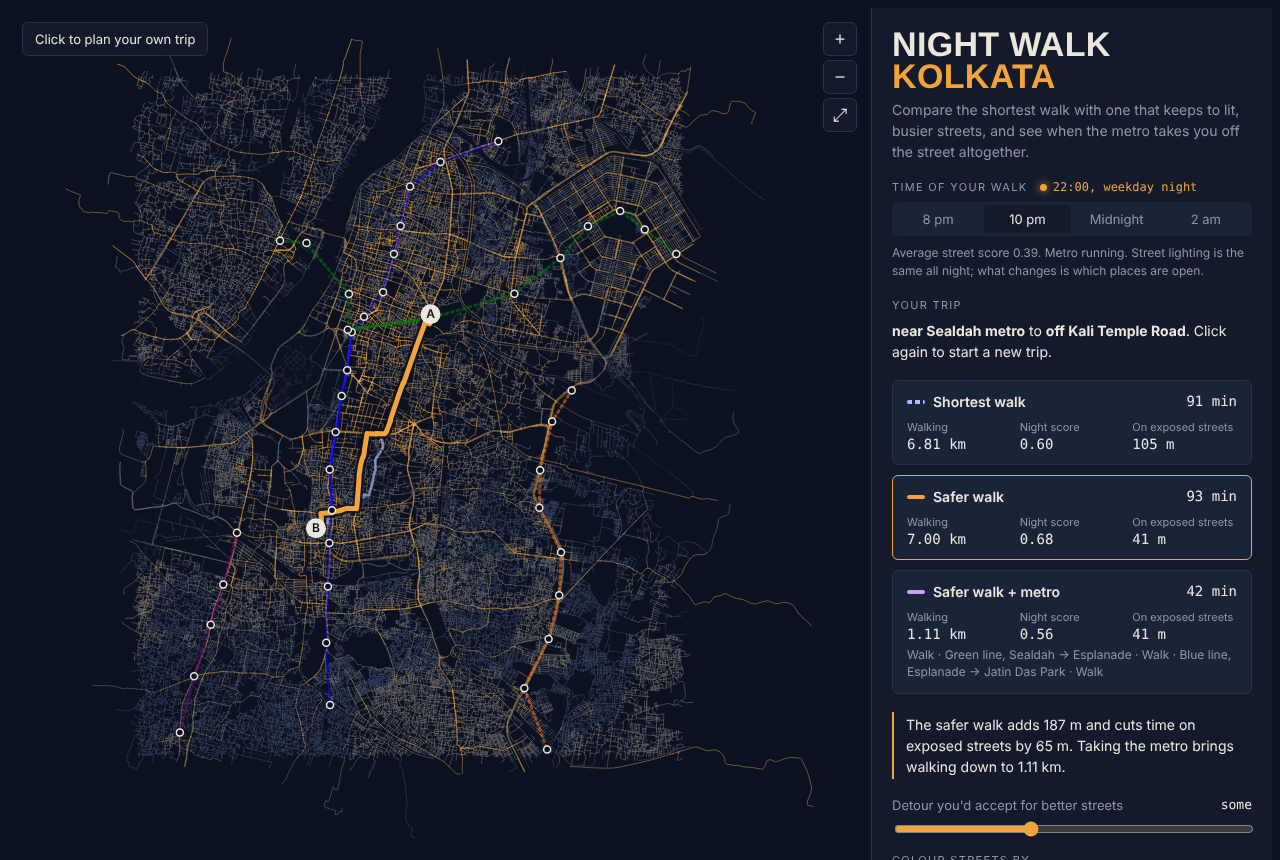
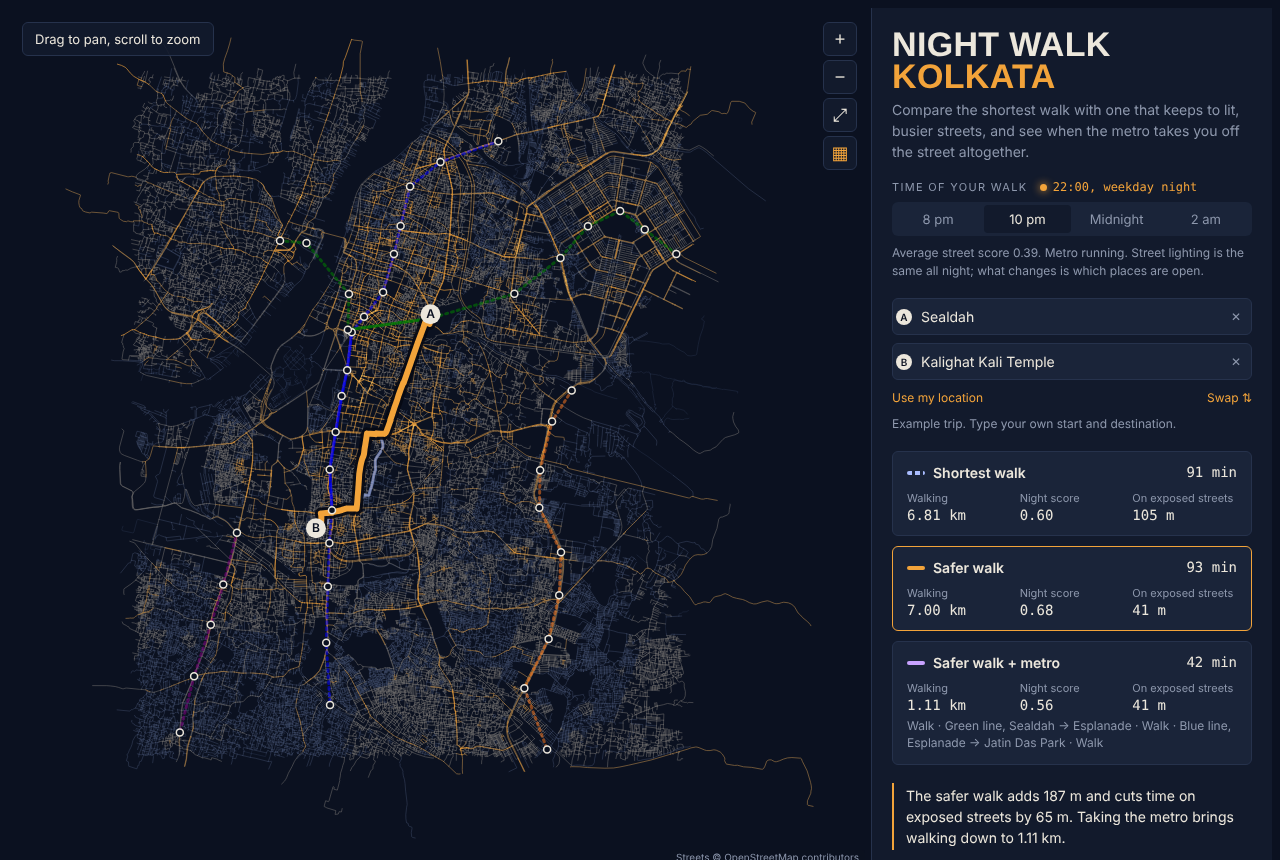
Update screenshot, clarify trip distances, add author section

diff --git a/src/nightwalk/evaluate.py b/src/nightwalk/evaluate.py
@@ -126,7 +126,7 @@ def run(edges, n_pairs=200, verbose=True):
     cov, cells = coverage_by_area(edges)
     if verbose:
         d = eff
-        print(f"\nROUTE EFFECT ({len(d)} random trips, 0.8-4 km)")
+        print(f"\nROUTE EFFECT ({len(d)} random trips, ends 0.8-4 km apart)")
         print(f"  safer route differs from shortest: {100*d.differs.mean():.0f}%")
         print(f"  median detour: {d.detour_pct.median():.1f}%  (p90 {d.detour_pct.quantile(.9):.1f}%)")
         print(f"  exposed distance: median {d.exposed_short_m.median():.0f} m -> "

diff --git a/README.md b/README.md
@@ -20,7 +20,8 @@ OSM snapshot of 2 November 2026: **74,288 walkable street segments, 4,434 km**
 in a 17 × 13 km box (22.47–22.62°N, 88.30–88.43°E) covering the Kolkata
 Municipal Corporation core, the Howrah riverfront and Salt Lake.
 
-**Safer routes are cheap.** Across 200 random trips of 0.8–4 km at 22:00:
+**Safer routes are cheap.** Across 200 random trips at 22:00, with ends 0.8–4 km
+apart in a straight line (median walk 3.6 km):
 
 | | Shortest walk | Safer walk (β = 3) |
 |---|---|---|
@@ -128,7 +129,7 @@ from the map at midnight and 02:00.
 There is no city-wide record of how safe streets feel at night, so
 `nightwalk.evaluate` runs the checks that do not need one:
 
-1. **Route effect.** Over random 0.8–4 km trips: how often the safer route
+1. **Route effect.** Over random trips whose ends are 0.8–4 km apart: how often the safer route
    differs, the detour it costs, and the exposed distance it saves.
 2. **Weight sensitivity.** Each weight moves ±0.15. Rank correlation of
    segment scores and overlap of chosen routes show whether conclusions depend
@@ -193,6 +194,7 @@ it with GitHub Pages. Routing runs in the browser, so no server is needed.
 ## Repository layout
 
 ```
+index.html       redirects the GitHub Pages site to web/
 src/nightwalk/
   config.py      study area, weights, priors, routing parameters
   fetch.py       Overpass queries (streets, lamps, places, transit, land use,
@@ -204,7 +206,10 @@ src/nightwalk/
   route.py       shortest / safer / walk + metro routing
   evaluate.py    validation checks without ground truth
   export.py      compact graph bundle and search index for the browser
+scripts/build_web.py  fills the template with the data bundle -> web/index.html
 web/template.html  the map: canvas renderer, basemap tiles, search, Dijkstra
+web/config.js    optional CARTO basemap key (no rebuild needed)
+docs/map.png     screenshot used above
 tests/           synthetic city and 27 tests
 results/         evaluation outputs for the Kolkata run
 ```
@@ -234,6 +239,12 @@ Nominatim (OpenStreetMap), used lightly and only on request. VIIRS night-time
 lights from the Earth Observation Group, Payne Institute. No personal data is
 used; "use my location" stays in the browser.
 
+## Author
+
+Ananya Saha, IIT (BHU) Varanasi · [GitHub](https://github.com/ananya-fml) ·
+[LinkedIn](https://www.linkedin.com/in/ananya-saha-404635225)
+
 ## Licence
 
-Code: MIT. See `LICENSE`.
+Code: MIT. See `LICENSE`. Map data © OpenStreetMap contributors (ODbL); see
+`data/ATTRIBUTION.md`.
